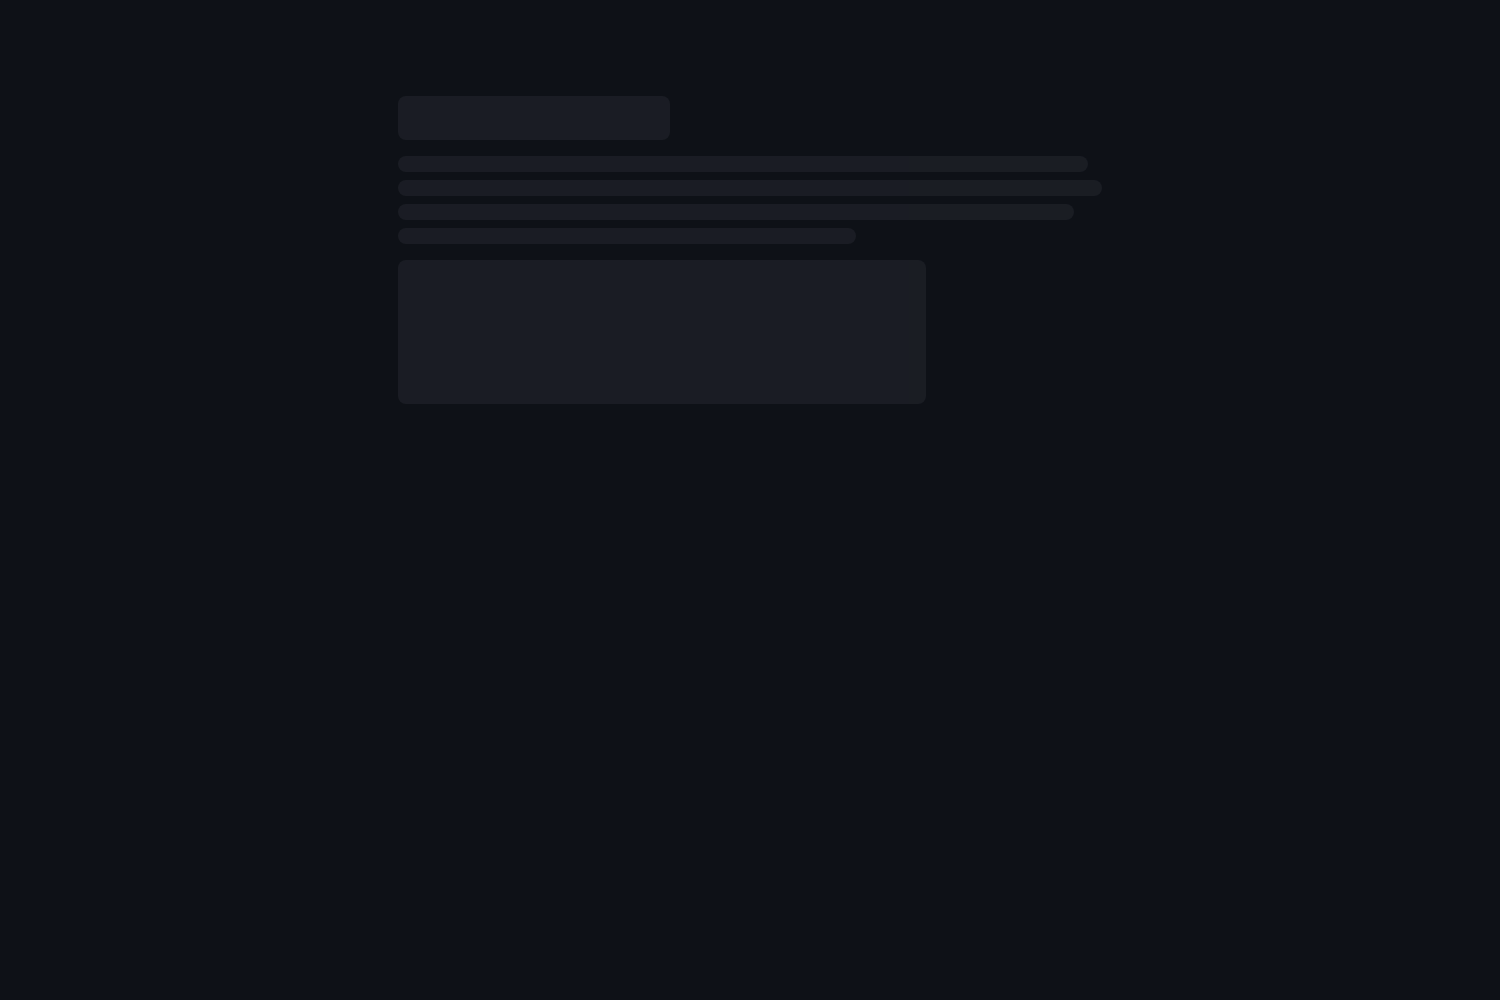
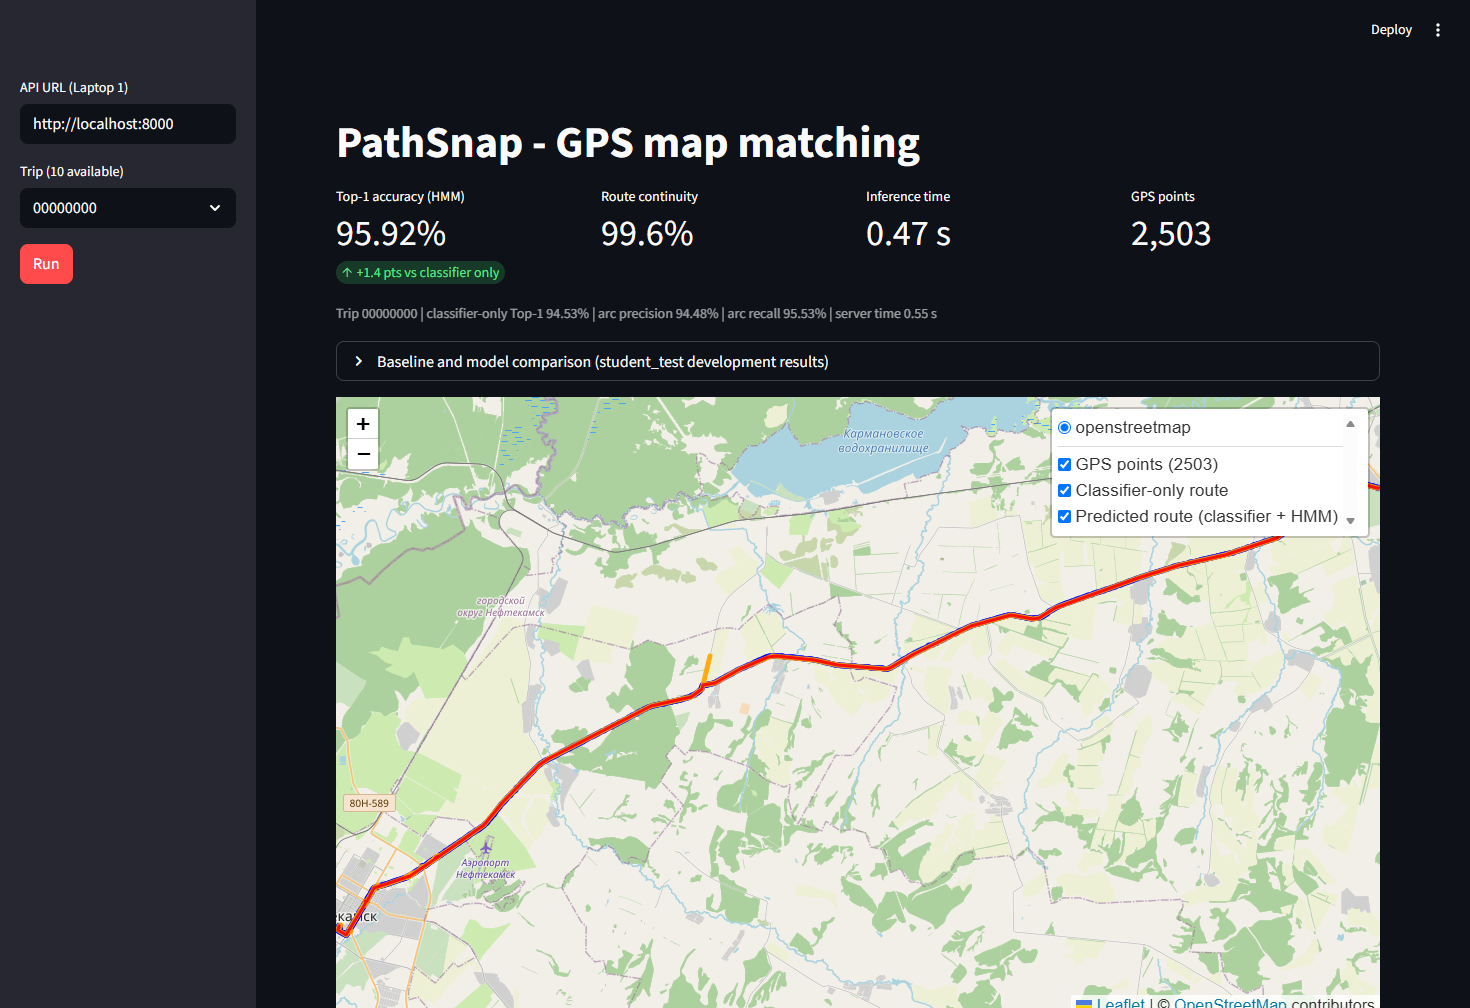
Capture UI screenshots after Streamlit has rendered and recapture all screenshots

diff --git a/report/capture_screenshots.py b/report/capture_screenshots.py
@@ -53,6 +53,40 @@ def shot(url: str, out: Path, size="1500,1000", budget=40000):
     return out.exists()
 
 
+def ui_shot(url: str, out: Path, wait_text="Top-1 accuracy", timeout=240) -> bool:
+    """Screenshot of the Streamlit UI AFTER it has rendered the prediction.
+
+    A plain headless --screenshot fires before Streamlit's websocket has delivered the page (it captures
+    the grey loading skeleton), so the UI is driven with Selenium and we wait for the metric cards.
+    Falls back to the plain screenshot if Selenium or a driver is unavailable.
+    """
+    try:
+        from selenium import webdriver
+        from selenium.webdriver.common.by import By
+        from selenium.webdriver.support.ui import WebDriverWait
+    except ImportError:
+        return shot(url, out)
+    drv = None
+    try:
+        try:
+            o = webdriver.EdgeOptions(); o.add_argument("--headless=new"); o.add_argument("--window-size=1500,1150")
+            drv = webdriver.Edge(options=o)
+        except Exception:
+            o = webdriver.ChromeOptions(); o.add_argument("--headless=new"); o.add_argument("--window-size=1500,1150")
+            drv = webdriver.Chrome(options=o)
+        drv.get(url)
+        WebDriverWait(drv, timeout).until(lambda d: wait_text in d.find_element(By.TAG_NAME, "body").text)
+        time.sleep(6)                      # let the map tiles and the route layers finish drawing
+        drv.save_screenshot(str(out))
+        return out.exists()
+    except Exception as e:
+        print("selenium screenshot failed:", e)
+        return False
+    finally:
+        if drv is not None:
+            drv.quit()
+
+
 def wait(url, tries=60):
     for _ in range(tries):
         try:
@@ -91,7 +125,7 @@ def main():
             trips = requests.get(f"http://localhost:{API_PORT}/trips").json()["trips"]
             for t in trips:
                 out = SHOTS / f"ui_{t}.png"
-                ok = shot(f"http://localhost:{UI_PORT}/?trip={t}&run=1&api=http://localhost:{API_PORT}", out)
+                ok = ui_shot(f"http://localhost:{UI_PORT}/?trip={t}&run=1&api=http://localhost:{API_PORT}", out)
                 print("UI screenshot", t, "ok" if ok else "FAILED", flush=True)
         finally:
             for p in (ui, api):
